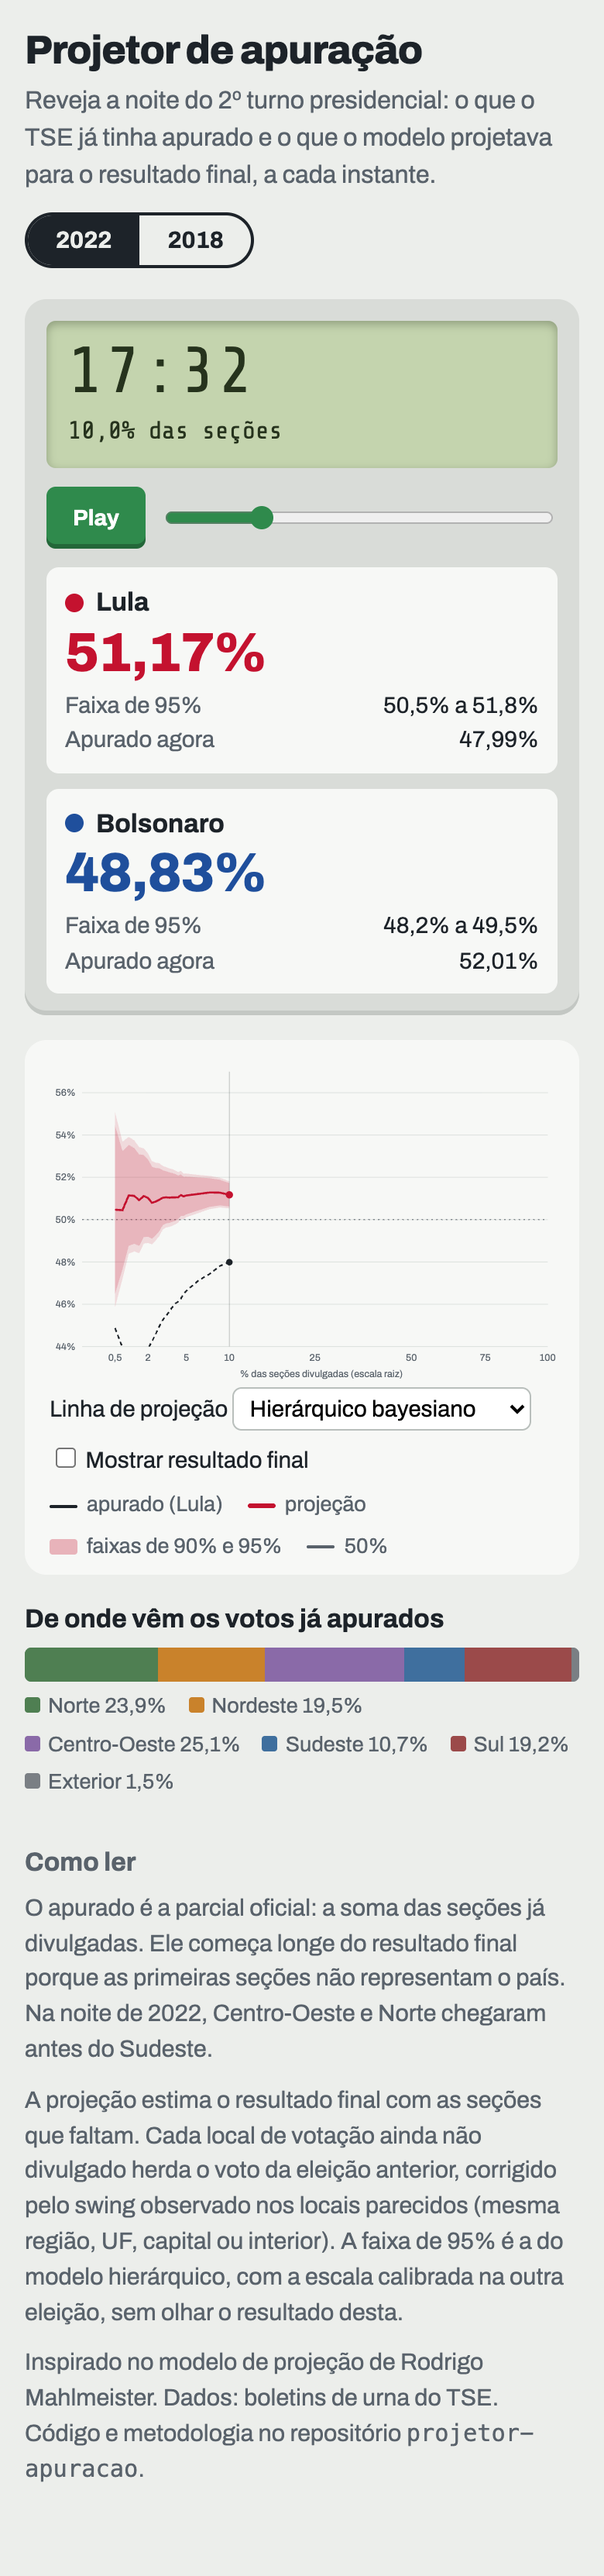
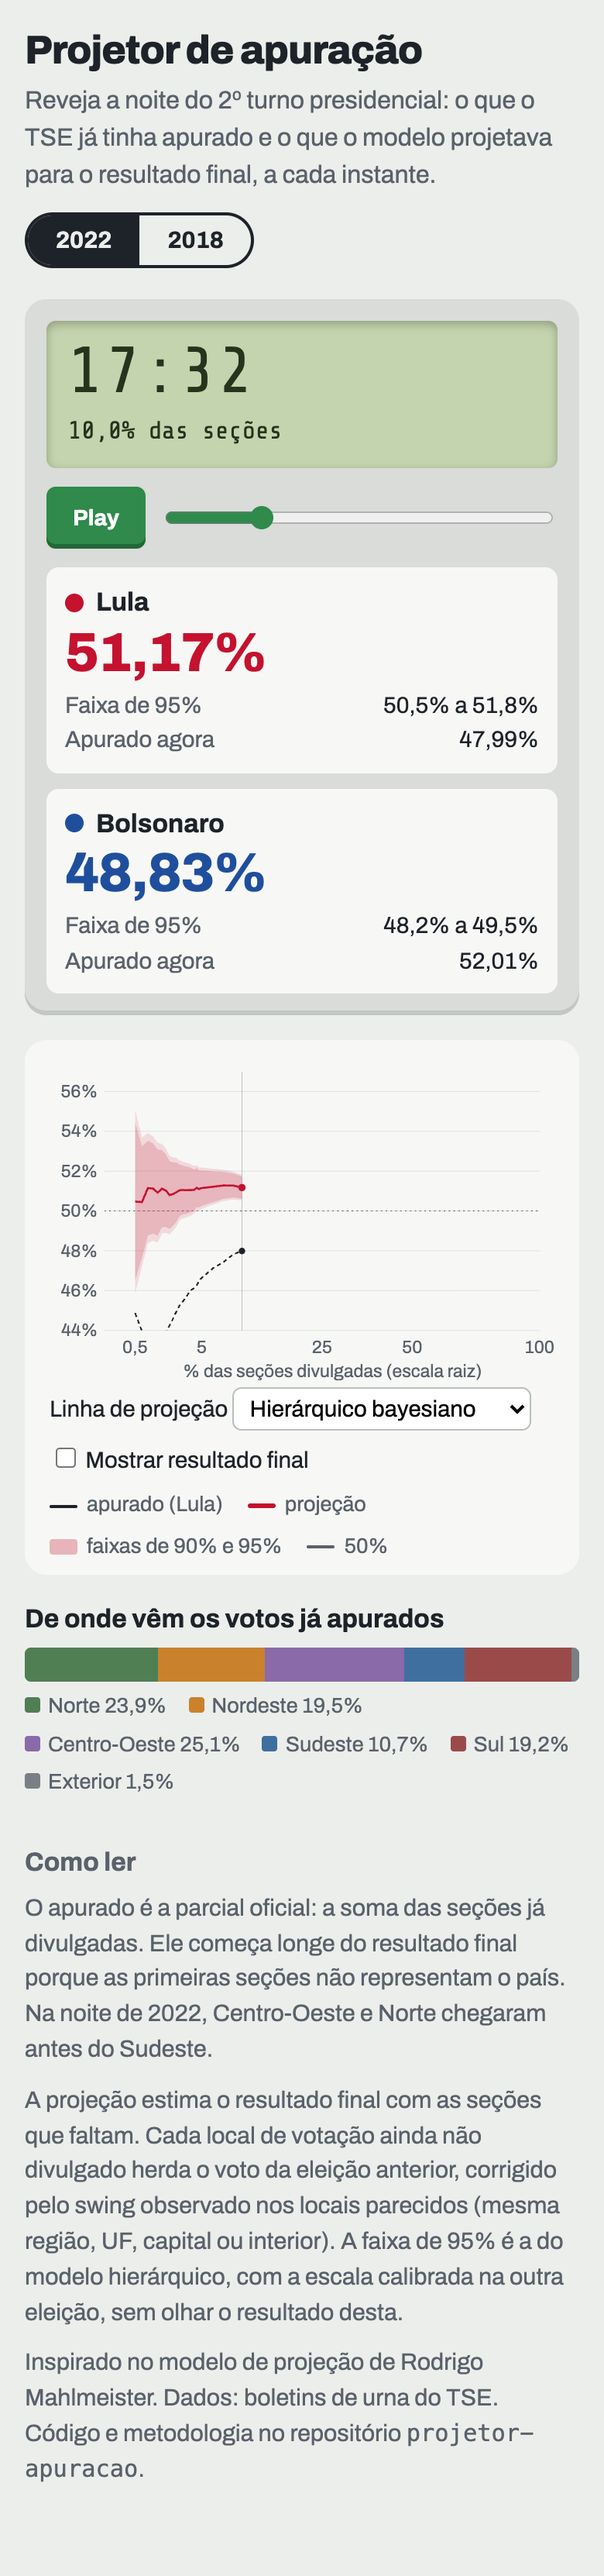
fix(app): rótulos do gráfico legíveis no celular

Changed region(s): [[0.1846, 0.4338, 0.4, 0.5268], [0.0923, 0.4338, 0.1538, 0.5268], [0.5231, 0.5268, 0.5846, 0.5578]]

diff --git a/app/index.html b/app/index.html
@@ -237,7 +237,10 @@
   }
 
   function desenharGrafico(modelo, fim) {
-    const W = 640, H = 400, m = { t: 16, r: 16, b: 44, l: 48 };
+    const W = 640, H = 400;
+    // O SVG encolhe com a tela: o texto compensa para ficar com ~12px na tela.
+    const fs = Math.min(22, Math.max(12, (12 * W) / (el("svg").clientWidth || W)));
+    const m = { t: 16, r: 4 + fs, b: 20 + 2 * fs, l: 16 + 2.7 * fs };
     const final = dados.final_pt;
     const pts = [...dados.pontos, ponto(dados.pontos.length)];
     const ate = pts.slice(0, i + 1);
@@ -252,7 +255,7 @@
       const volta = [...ate].reverse().map((p) => `L${x(p.secoes_pct).toFixed(1)},${y(p[campo][0]).toFixed(1)}`).join("");
       return ida + volta + "Z";
     };
-    const ticksX = [0.5, 2, 5, 10, 25, 50, 75, 100];
+    const ticksX = fs > 16 ? [0.5, 5, 25, 50, 100] : [0.5, 2, 5, 10, 25, 50, 75, 100];
     const ticksY = [];
     for (let v = lo; v <= hi; v += 2) ticksY.push(v);
     const atual = ate.at(-1);
@@ -261,9 +264,9 @@
     el("svg").innerHTML = `
       <defs><clipPath id="area"><rect x="${m.l}" y="${m.t}" width="${W - m.l - m.r}" height="${H - m.t - m.b}"/></clipPath></defs>
       ${ticksY.map((v) => `<line x1="${m.l}" x2="${W - m.r}" y1="${y(v)}" y2="${y(v)}" stroke="#dde1de"/>
-        <text x="${m.l - 8}" y="${y(v) + 4}" text-anchor="end" font-size="12" fill="#59626b">${v}%</text>`).join("")}
-      ${ticksX.map((s) => `<text x="${x(s)}" y="${H - m.b + 18}" text-anchor="middle" font-size="12" fill="#59626b">${pct(s, s < 1 ? 1 : 0)}</text>`).join("")}
-      <text x="${(W + m.l) / 2}" y="${H - 6}" text-anchor="middle" font-size="12" fill="#59626b">% das seções divulgadas (escala raiz)</text>
+        <text x="${m.l - 8}" y="${y(v) + fs / 3}" text-anchor="end" font-size="${fs}" fill="#59626b">${v}%</text>`).join("")}
+      ${ticksX.map((s) => `<text x="${x(s)}" y="${H - m.b + 6 + fs}" text-anchor="middle" font-size="${fs}" fill="#59626b">${pct(s, s < 1 ? 1 : 0)}</text>`).join("")}
+      <text x="${(W + m.l) / 2}" y="${H - 6}" text-anchor="middle" font-size="${fs}" fill="#59626b">% das seções divulgadas (escala raiz)</text>
       <line x1="${m.l}" x2="${W - m.r}" y1="${y(50)}" y2="${y(50)}" stroke="#59626b" stroke-dasharray="2 4"/>
       <g clip-path="url(#area)">
         <path d="${area("faixa95")}" fill="var(--pt)" opacity="0.13"/>
@@ -271,7 +274,7 @@
         <path d="${linha("apurado")}" fill="none" stroke="#1d2329" stroke-width="2" stroke-dasharray="5 4"/>
         <path d="${linha(modelo)}" fill="none" stroke="var(--pt)" stroke-width="2.5"/>
         ${mostrarFinal ? `<line x1="${m.l}" x2="${W - m.r}" y1="${y(final)}" y2="${y(final)}" stroke="var(--confirma)" stroke-width="2"/>
-          <text x="${W - m.r - 4}" y="${y(final) - 6}" text-anchor="end" font-size="12" font-weight="700" fill="var(--confirma)">final ${pct(final)}%</text>` : ""}
+          <text x="${W - m.r - 4}" y="${y(final) - 6}" text-anchor="end" font-size="${fs}" font-weight="700" fill="var(--confirma)">final ${pct(final)}%</text>` : ""}
         <line x1="${x(atual.secoes_pct)}" x2="${x(atual.secoes_pct)}" y1="${m.t}" y2="${H - m.b}" stroke="#1d2329" opacity="0.25"/>
         <circle cx="${x(atual.secoes_pct)}" cy="${y(atual[modelo])}" r="4.5" fill="var(--pt)"/>
         <circle cx="${x(atual.secoes_pct)}" cy="${y(atual.apurado)}" r="4" fill="#1d2329"/>
@@ -306,6 +309,7 @@
   el("relogio").addEventListener("input", (e) => { parar(); i = Number(e.target.value); desenhar(); });
   el("modelo").addEventListener("change", () => dados && desenhar());
   el("mostrarFinal").addEventListener("change", () => dados && desenhar());
+  addEventListener("resize", () => dados && desenhar());
   document.querySelectorAll(".eleicoes button").forEach((b) => b.addEventListener("click", () => trocarEleicao(Number(b.dataset.ano))));
   trocarEleicao(2022);
 })();
